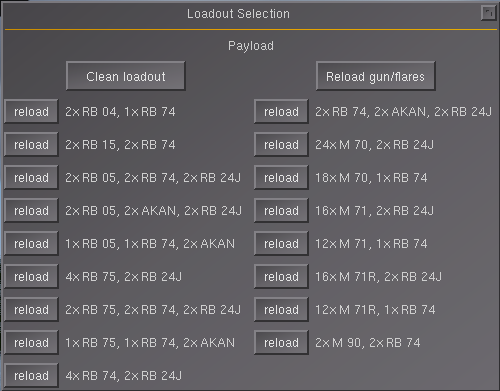
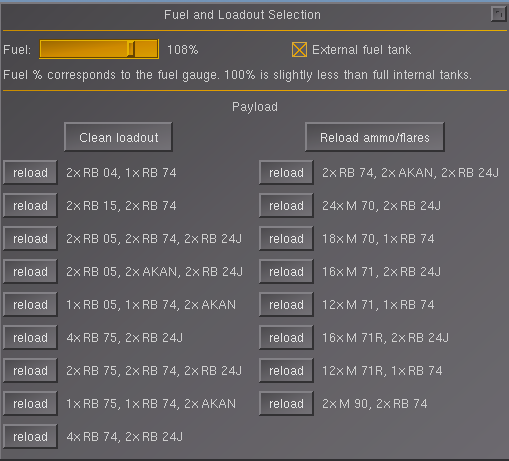
Corrections for newest version mid October

Changed region(s): [[0.0, 0.0, 1.0, 1.0], [0.78, 0.7673, 0.87, 0.8286], [0.39, 0.4297, 0.48, 0.4604]]

diff --git a/Documentation/manual.tex b/Documentation/manual.tex
@@ -26,10 +26,12 @@
   {\Huge FlightGear Flight Manual}
   \\[16cm]
   \color{white}
-  \emph{model by}\\
+  \emph{Model by}\\
   Anders Lejczak, Justin Nicholson, Enrico Castaldi,\\
   Joshua Davidson, Nicola B.\ Bernardelli, Isaac Protiva,\\
-  Nikolai V.\ Chr.
+  Colin Geniet, Nikolai V.\ Chr.\\
+  \emph{Document by}\\
+  Colin Geniet, Rick Gruber-Riemer
 \end{titlepage}
 \restoregeometry
 
@@ -128,13 +130,19 @@ The guide you are reading is keeping up with the latest Git version and therefor
 
 \begin{figure}[h]
 \includegraphics[width=15cm]{images/fg_launcher_choose_aircraft_variant.png}
-\caption[Choose Viggen variant in Launcher]{In the \emph{Aircraft} tab in the FlightGear Launcher make sure to choose the correct variant for your next flight.}
+\caption[Choose Viggen variant in Launcher]{In the \emph{Aircraft} tab of the FlightGear Launcher make sure to choose the correct variant for your next flight.}
 \end{figure}
 
 \section{Compatibility}
-The Viggen is tested against FlightGear version 2018.3.x is tested. Earlier version will probably not work, later might.
+The Viggen is tested against FlightGear version 2020.2.x. Earlier long-term support versions of FlightGear will probably work (e.g. 2018.3.x), development versions of FlightGear might work but are not recommended.
 
 Rendering framework in FlightGear: The aircraft is sort of \href{http://wiki.flightgear.org/Project_Rembrandt}{Rembrandt} ready without glaring issues. \href{http://wiki.flightgear.org/Atmospheric_light_scattering}{ALS} is actively maintained and extended in the Viggen and therefore recommended.
+
+\begin{figure}[h]
+\centering
+ \includegraphics[width=10cm]{images/launcher_settings_renderer.png}
+ \caption[Choose rendering settings in Launcher]{In the \emph{Settings} tab of the FlightGear Launcher consider using the Atomospheric Light Scattering (ALS) renderer.}
+\end{figure}
 
 \section{Menu Entries and In-Flight Configuration}
 \subsection{Menu Help}
@@ -148,21 +156,18 @@ The Help menu contains 2 menu items, which are Viggen specific:
 This menu contains a set of menu items, which ease some configurations, which are not available otherwise or would be tedious to do.
 \begin{itemize}
 \item Select Livery: there is a variety of liveries available, some of which are fictional. Note that the dialog does not take care of whether a livery belongs to the AJS or JA Di version: if you want to fly authentic, you need to know yourself.
-\item Auto start/stop: Lets you start and stop the plane. The progress is shown in the top centre of the screen in blue text. \glqq Engine ready\grqq is the final notification of the start-up sequence. The shut-down sequence is done, when the aircraft is dark.
+\item Auto start/stop: Lets you start and stop the plane without needing to switch switches etc. yourself. The progress is shown in the top centre of the screen in blue text. \glqq Engine ready\grqq is the final notification of the start-up sequence. The shut-down sequence is done, when the aircraft is dark.
 \item Repair: repairs system failures etc. when you are on the ground. If you have crashed, then there is no help.
-\item Loadout: Opens a custom dialog to allow fast selection of a suitable loadout. This is an alternative to menu item Fuel and Payload in menu Equipment. It will make sure that you only select weapon combinations, which were valid in the real Viggen.
+\item Fuel/Loadout: Opens a custom dialog to allow fast selection of a suitable loadout and fuel settings. This is an alternative to menu item Fuel and Payload in menu Equipment. It will make sure that you only select weapon combinations, which were valid in the real Viggen.
 
 \begin{figure}[h]
 \centering
  \includegraphics[width=10cm]{images/fg_loadout_dialog.png}
- \caption{Viggen specific loadout dialog}
+ \caption{Viggen specific fuel and loadout selection dialog}
 \end{figure}
 
-\item Refuel: Standard: all tanks full, but no external centre tank
-\item Refuel: Long distance: adds fuel to the drop tank on the centre fuselage pylon.
-\item Refuel: Test flight: reduced fuel amount to ca. 80\% of the standard
-\item Performance Monitor
-\item Systems Monitor
+\item Performance Monitor: shows performance values, some of which are also available on original instruments (mostly for developers)
+\item Systems Monitor: ditto for systems (mostly for developers)
 \item Toggle external power: note that this is one of the things added and removed automatically when using the auto start/stop function.
 \item Options: various configuration options. Note that the Viggen was a Swedish fighter and therefore the most authentic settings are with Swedish labels and for the AJS with metric instead of imperial units.
 \end{itemize}
@@ -179,10 +184,10 @@ In menu item \emph{Rendering Options}:
 \item Enable \emph{Atmospheric Light Scattering (ALS)} on the right side in \emph{Shader Effects}. Select \emph{Custom settings (fine tuning)} and in \emph{Shader Options} set the slider related to \emph{Model} to the right side (highest setting). This is amongst others needed to get nice flood lights in the cockpit at night.
 \item Enable Particles
 \item Enable Precipitation (you get nice rain drops on the canopy when it rains)
-\item 3D clouds: on
+\item 3D clouds: on (if your computer can run it)
 \end{itemize}
 
-The \emph{View options} menu item allows to show tooltips on mouse over / mouse press for gauges and knobs.
+The \emph{View options} menu item allows to show tooltips on mouse over / mouse press for gauges and knobs. It is recommended to enable \emph{show frame rate} (number displayed at the lower right edge of the screen) and set your graphic settings such that the value is at least 15 and preferably higher than 20. This has not only an influence on how smooth the rendering looks (no shuttering), but also how good the flight model simulation is calculated.
 
 In menu item \emph{Cockpit View Options}
 \begin{itemize}
@@ -264,7 +269,7 @@ Operations (reference: [AJS\_3, sec. 7, ch. 5, p. 210] for description, [AJS\_2,
  \item Before reaching the pop-up point:
  \begin{itemize}
   \item Correct the atmospheric pressure.
-  \item Choose mode \emph{ANF} (not yet modelled correctly in FlightGear).
+  \item Choose mode \emph{ANF}.
   \item Set the \emph{J/A} weapons knob to Rb 05A with the correct fuse (MARK for ground, SJÖ for naval). Not yet modelled correctly in FlightGear: instead choose the Rb 05A by pressing \keys{w} until displayed on the HUD.
   \item Check that the autopilot is on \emph{SPAK} only.
  \end{itemize}
@@ -343,7 +348,7 @@ Title & Length & Subtitles & Year & Comments \\
 \href{https://www.youtube.com/watch?v=IbsYsUvCy7s}{Rörlig klargöring JA37 Arlanda} & 43 min & no & 1996 & Ground operations of JA 37 on an improvised stand at Arlanda airport\\
 \href{https://vimeo.com/60091080}{Viggen i Älskar, älskar inte} & 4 min & no & ?? & Excerpts from the feature film, Älskar, älskar inte. Nice dogfighting between JA and AJS plus some CI sequences\\
 \href{https://www.youtube.com/watch?v=eT00_OVrv7o}{JA-37 and SK-37E Night Ops} & 7 min & no & ?? & Night flying with good pictures of exhaust, navigation and beacon lights\\
-\href{https://www.youtube.com/watch?v=0ocSUd9_5Tw}{JA37 F21 1982-2004} & 17 min & no ?? & Around min 5 and 15 there are longer sequences of the HUD in weapons mode (JA variant)\\
+\href{https://www.youtube.com/watch?v=0ocSUd9_5Tw}{JA37 F21 1982-2004} & 17 min & no & ?? & Around min 5 and 15 there are longer sequences of the HUD in weapons mode (JA variant)\\
 
 \hline
 \end{tabular}
